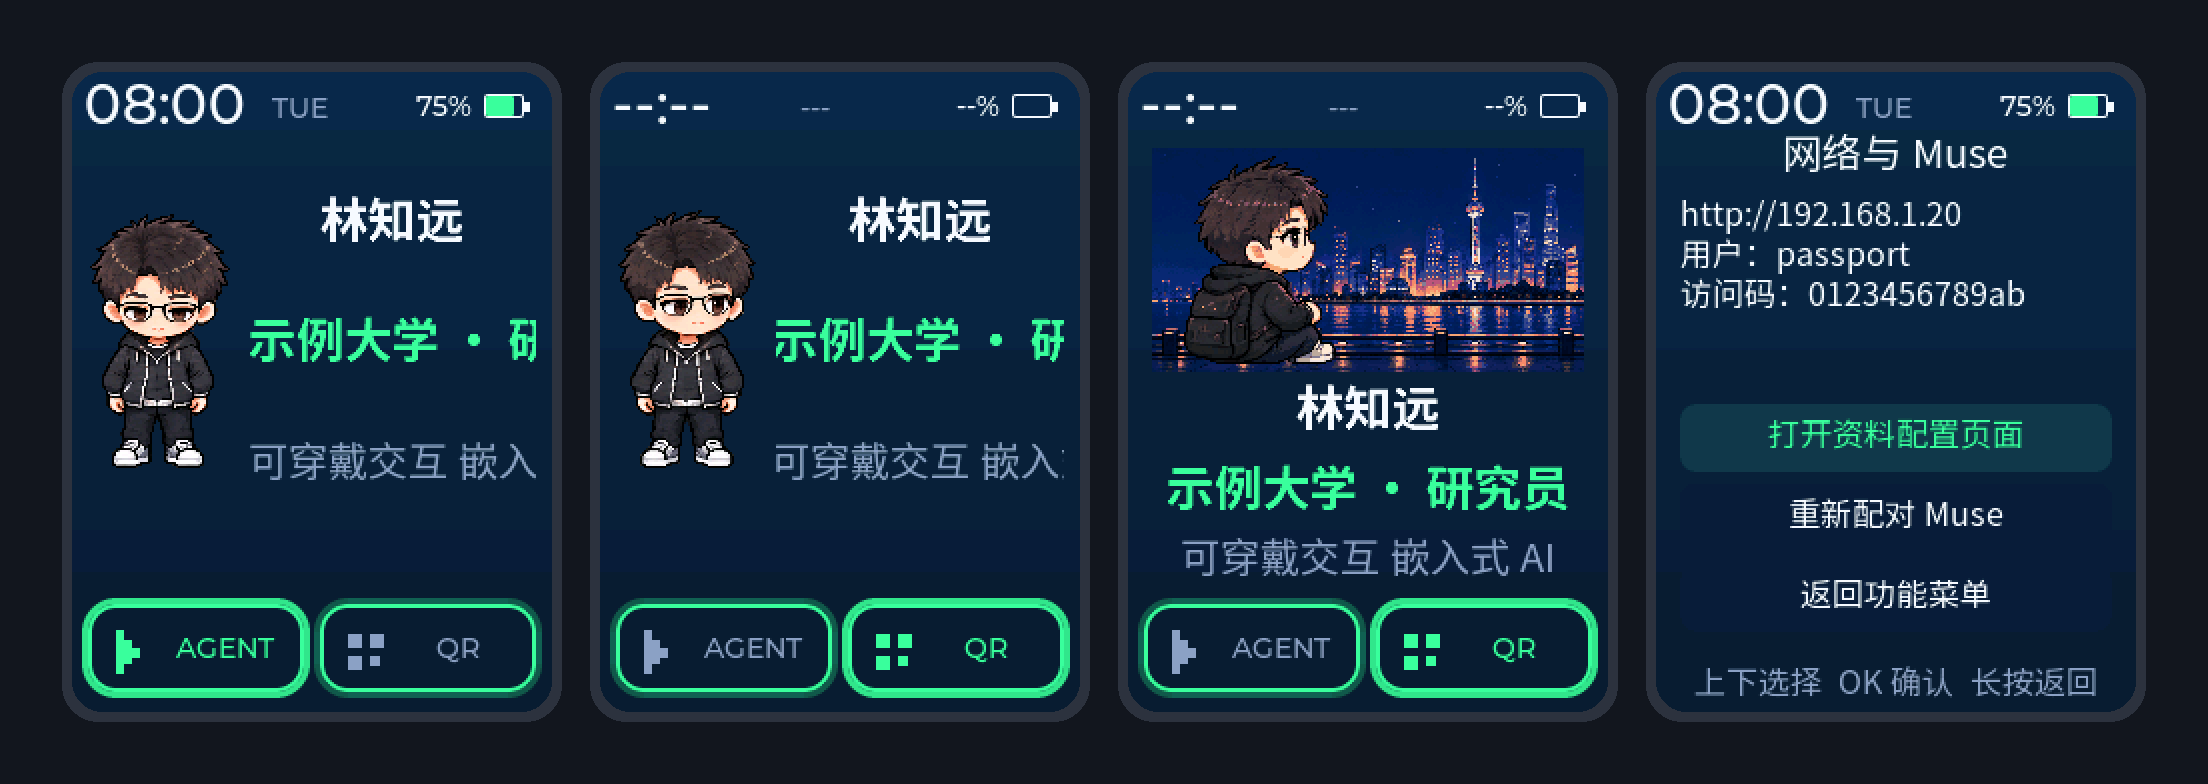
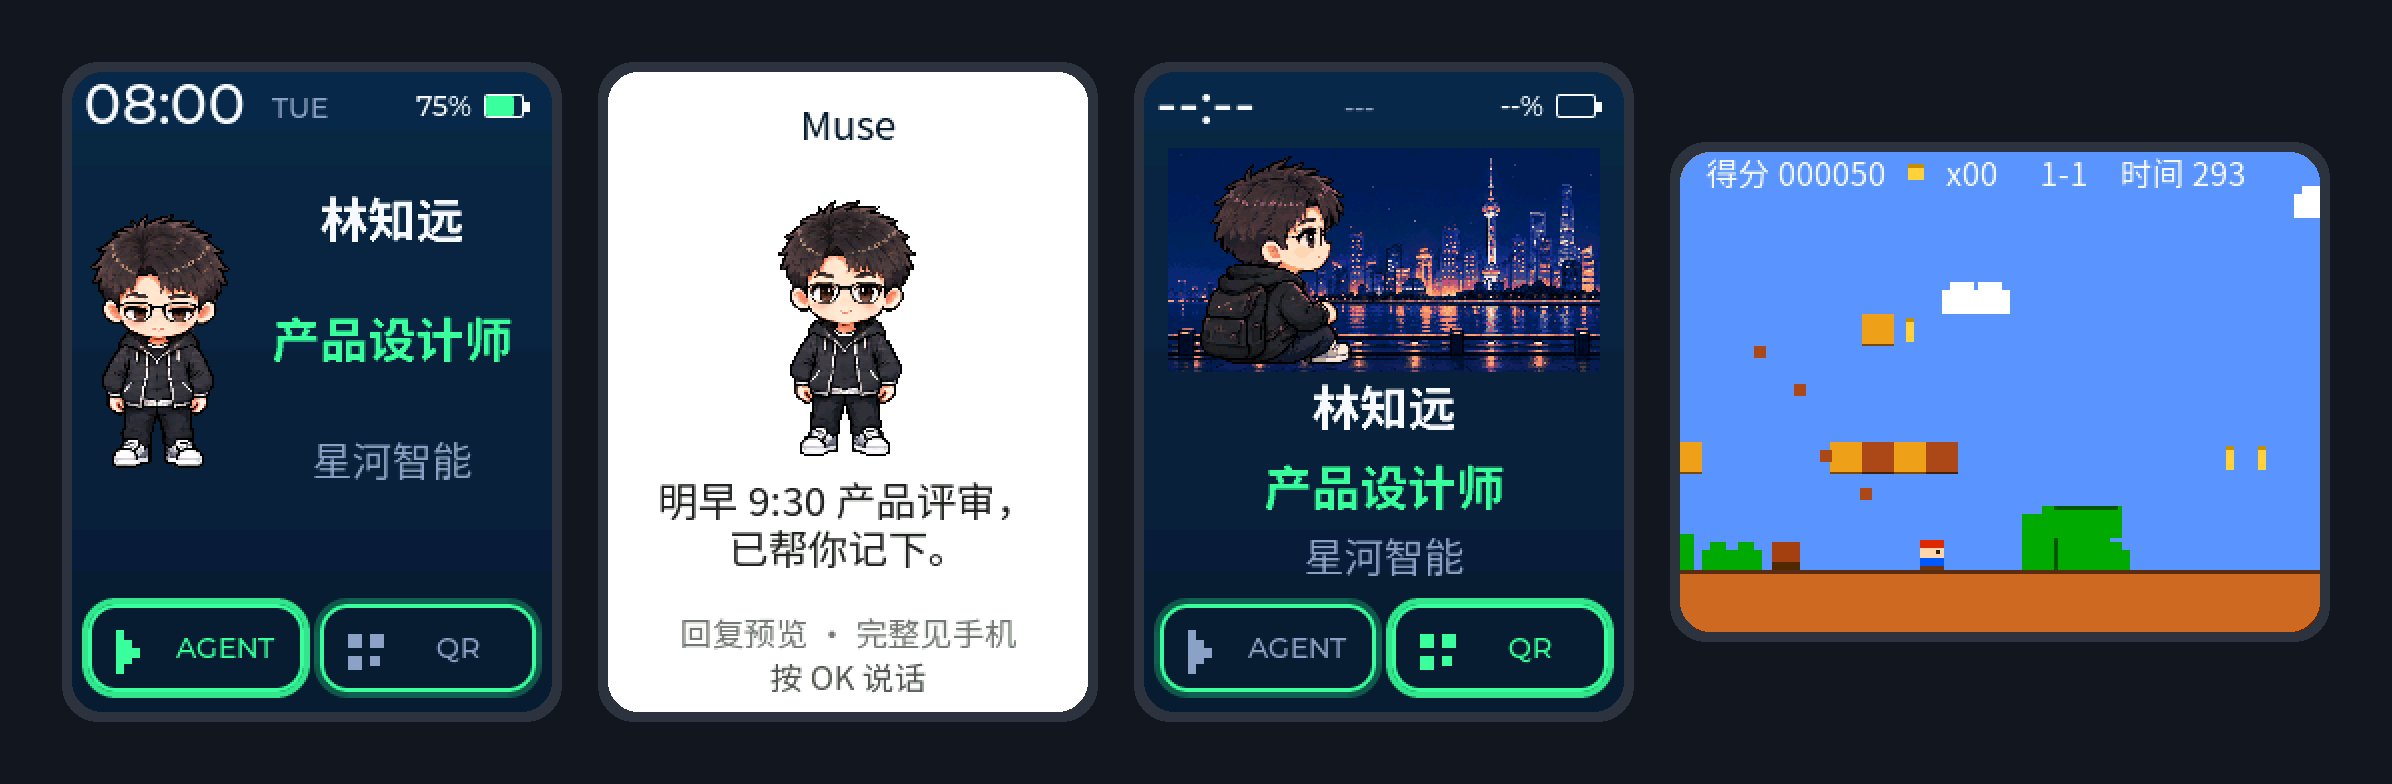
Position as a multi-function badge and showcase Muse and the game
- README: lead with the multi-function badge; add Muse and mini-game
  screenshots rendered from the real UI; fictional sample profile
- Public Muse page reuses the showcase character instead of the
  neutral placeholder face
- About page shows AI PassportOS; profile labels become role and
  organization instead of academic identity and research
- Game HUD uses ASCII x, since the font subset has no multiplication sign
- UI test captures an in-play game frame

diff --git a/tests/test_passport_ui.c b/tests/test_passport_ui.c
@@ -1,6 +1,7 @@
 #include "passport_ui.h"
 #include "passport_assets.h"
 #include "passport_qr.h"
+#include "passport_strings.h"
 #include "src/display/lv_display_private.h"
 #include "src/widgets/label/lv_label_private.h"
 #include <assert.h>
@@ -8,6 +9,8 @@
 #include <stdlib.h>
 #include <string.h>
 
+#define GAME_DEMO_STEPS 90
+#define GAME_DEMO_JUMP 25
 static uint16_t pixels[240*320];
 static uint16_t draw[240*40];
 static uint16_t picture_pixels[240*320];
@@ -290,7 +293,7 @@ int main(int argc,char **argv) {
     model.page=PASSPORT_PAGE_BADGE;
     assert(passport_ui_render(&model,&record,75,true,1761004800)); lv_refr_now(display); dump(argv[1],"badge-live");
     const char *name=record.profile.name[0]?record.profile.name:"姓名未设置";
-    const char *organization=record.profile.title[0]?record.profile.title:"学术身份未设置";
+    const char *organization=record.profile.title[0]?record.profile.title:PASSPORT_TEXT_TITLE_UNSET;
     lv_obj_t *name_label=find_label(lv_screen_active(),name),*organization_label=find_label(lv_screen_active(),organization);
     assert(name_label && organization_label);
     assert(lv_obj_get_style_text_font(name_label,0)==&passport_font_24_bold);
@@ -304,9 +307,9 @@ int main(int argc,char **argv) {
     size_t stable_free=0,stable_blocks=0;
     passport_agent_model_t agent={.revision=1,.state=PASSPORT_AGENT_REPLY,
         .connection=PASSPORT_AGENT_READY,.voice=PASSPORT_VOICE_READY,.journal={.version=1,.count=1}};
-    strcpy(agent.reply,"研究任务已完成，可以继续提问。");
+    strcpy(agent.reply,"明早 9:30 产品评审，已帮你记下。");
     strcpy(agent.journal.result,agent.reply);
-    strcpy(agent.journal.notes[0],"会议笔记：明天整理实验记录。");
+    strcpy(agent.journal.notes[0],"会议笔记：周五前整理需求清单。");
     passport_ui_agent_snapshot(&agent);
     model.page=PASSPORT_PAGE_AGENT;
     assert(passport_ui_render(&model,&record,75,true,1761004800));
@@ -319,7 +322,7 @@ int main(int argc,char **argv) {
     const char *agent_name=getenv("PASSPORT_PREVIEW_REQUIRE_AGENT_NAME");
     if(agent_name) assert(!strcmp(passport_agent_name,agent_name));
     unsigned agent_timers=timer_count();
-    for(unsigned i=0;i<20;i++) strcpy(agent.reply+i*strlen("研究任务记录与结果。\n"),"研究任务记录与结果。\n");
+    for(unsigned i=0;i<20;i++) strcpy(agent.reply+i*strlen("今日待办记录与结果。\n"),"今日待办记录与结果。\n");
     agent.revision++;passport_ui_agent_snapshot(&agent);
     assert(passport_ui_render(&model,&record,75,true,1761004800));lv_refr_now(display);
     lv_obj_t *reply_label=find_label(lv_screen_active(),agent.reply);assert(reply_label);
@@ -335,7 +338,7 @@ int main(int argc,char **argv) {
         assert(timer_count()==agent_timers);
         assert(lv_obj_get_scroll_y(reply_container)==reply_scroll);
     }
-    strcpy(agent.reply,"研究任务已完成，可以继续提问。");agent.revision++;passport_ui_agent_snapshot(&agent);
+    strcpy(agent.reply,"明早 9:30 产品评审，已帮你记下。");agent.revision++;passport_ui_agent_snapshot(&agent);
     agent.voice=PASSPORT_VOICE_PLAYING;agent.level=70;agent.revision++;passport_ui_agent_snapshot(&agent);
     assert(passport_ui_render(&model,&record,75,true,1761004800));
     assert(has_text(lv_screen_active(),"按 OK 停止朗读"));
@@ -404,6 +407,18 @@ int main(int argc,char **argv) {
     assert(has_text(lv_screen_active(),"确认清除 Muse 配对"));
     lv_refr_now(display);dump(argv[1],"muse-repair-confirm");
     model.setup_confirm=false;passport_ui_configuration(NULL,NULL);
+    /* A short scripted run documents the in-game view, not just its title overlay. */
+    model.page=PASSPORT_PAGE_GAME;
+    assert(passport_ui_render(&model,&record,-1,false,0));
+    passport_ui_game_key(PASSPORT_KEY_OK,PASSPORT_KEY_PRESS);passport_ui_game_key(PASSPORT_KEY_OK,PASSPORT_KEY_RELEASE);
+    passport_ui_game_key(PASSPORT_KEY_DOWN,PASSPORT_KEY_PRESS);
+    for(unsigned step=0;step<GAME_DEMO_STEPS;step++) {
+        if(step%GAME_DEMO_JUMP==GAME_DEMO_JUMP-1) passport_ui_game_key(PASSPORT_KEY_OK,PASSPORT_KEY_PRESS);
+        if(step%GAME_DEMO_JUMP==0) passport_ui_game_key(PASSPORT_KEY_OK,PASSPORT_KEY_RELEASE);
+        lv_tick_inc(33);assert(passport_ui_render(&model,&record,-1,false,0));
+    }
+    passport_ui_game_key(PASSPORT_KEY_DOWN,PASSPORT_KEY_RELEASE);
+    lv_refr_now(display);dump(argv[1],"game-play");
     for(unsigned iteration=0;iteration<100;iteration++) {
         for(int page=PASSPORT_PAGE_BADGE;page<=PASSPORT_PAGE_MUSE_SETUP;page++) {
             model.page=(passport_page_t)page;

diff --git a/main/passport_ui.c b/main/passport_ui.c
@@ -318,7 +318,7 @@ static void agent_update(void) {
 }
 static bool agent_build(void) {
     text(body,12,16,216,30,passport_agent_name,&passport_font_20,DARK_INK,true);
-    agent_stage=box(body,0,50,240,142,0xffffff);
+    agent_stage=box(body,0,46,240,150,0xffffff);
     if(!agent_stage) return false;
     lv_obj_set_style_bg_opa(agent_stage,LV_OPA_TRANSP,0);
     const lv_image_dsc_t *portrait=passport_agent_avatar_frame(0);
@@ -326,7 +326,7 @@ static bool agent_build(void) {
     if(!avatar) {page_failed=true;return false;}
     lv_image_set_src(avatar,portrait);
     /* Native Flash frames avoid a scaled image layer on the no-PSRAM C3. */
-    lv_obj_set_pos(avatar,(240-(int)portrait->header.w)/2,(142-(int)portrait->header.h)/2);
+    lv_obj_set_pos(avatar,(240-(int)portrait->header.w)/2,(150-(int)portrait->header.h)/2);
     avatar_scene=NULL;avatar_motion=avatar_temporary=false;
     scene_began=agent_visual_since=lv_tick_get();blink_tick=0;
     agent_content=lv_obj_create(body);
@@ -707,7 +707,7 @@ static void game_overlay_update(void) {
         else lv_obj_clear_flag(game_overlay_hint2,LV_OBJ_FLAG_HIDDEN);
         if(wanted==1) {
             lv_label_set_text(game_overlay_title,PASSPORT_TEXT_MENU_GAME);
-            snprintf(line,sizeof line,"%s ×%u · %s %lu",PASSPORT_TEXT_GAME_LIVES,
+            snprintf(line,sizeof line,"%s x%u · %s %lu",PASSPORT_TEXT_GAME_LIVES,
                      game.lives,PASSPORT_TEXT_GAME_BEST,(unsigned long)game.best);
             lv_label_set_text(game_overlay_hint,PASSPORT_TEXT_GAME_READY);
             lv_label_set_text(game_overlay_hint2,PASSPORT_TEXT_GAME_EXIT);
@@ -739,7 +739,7 @@ static void game_frame(void) {
         game_shown_score=game.score;
     }
     if(game_shown_coins!=game.coins) {
-        snprintf(buf,sizeof buf,"×%02u",game.coins);
+        snprintf(buf,sizeof buf,"x%02u",game.coins);
         if(game_hud_coins) lv_label_set_text(game_hud_coins,buf);
         game_shown_coins=game.coins;
     }
@@ -838,7 +838,7 @@ static bool build_page(const passport_model_t *m,const passport_record_t *r) {
         for(unsigned i=0;i<3;i++) panel(body,BRIGHT_BAR_X0+(int)i*BRIGHT_BAR_GAP,BRIGHT_BAR_Y,BRIGHT_BAR_W,BRIGHT_BAR_H,m->brightness>=(i+1)*30?NEON:TRACK,4);
         text(body,CONTENT_X,BRIGHT_HINT_Y,CONTENT_W,24,PASSPORT_TEXT_BRIGHTNESS_HINT,&passport_font_16,MUTED,true);
     } else if(m->page==PASSPORT_PAGE_ABOUT) {
-        text(body,CONTENT_X,ABOUT_TITLE_Y,CONTENT_W,24,"Passport OS",&lv_font_montserrat_20,INK,true);
+        text(body,CONTENT_X,ABOUT_TITLE_Y,CONTENT_W,24,"AI PassportOS",&lv_font_montserrat_20,INK,true);
         text(body,CONTENT_X,ABOUT_VER_Y,CONTENT_W,24,PASSPORT_TEXT_ABOUT_VERSION " " PASSPORT_VERSION,&passport_font_16,NEON,true);
         text(body,CONTENT_X,ABOUT_BOARD_Y,CONTENT_W,24,PASSPORT_TEXT_ABOUT_BOARD,&passport_font_16,MUTED,true);
     } else if(m->page==PASSPORT_PAGE_MUSE_SETUP) {

diff --git a/main/passport_config.c b/main/passport_config.c
@@ -81,8 +81,8 @@ static const char PAGE[] =
 "</style></head><body><h1>工牌配置</h1>"
 "<div class='sub'>连接热点后自动弹出本页；五分钟无操作热点自动关闭。</div>"
 "<form id='f'><label>姓名</label><input type='text' name='name' maxlength='64'>"
-"<label>学术身份</label><input type='text' name='title' maxlength='96'>"
-"<label>研究方向</label><input type='text' name='research' maxlength='192'>"
+"<label>职位 / 身份</label><input type='text' name='title' maxlength='96'>"
+"<label>单位 / 标签</label><input type='text' name='research' maxlength='192'>"
 "<label>简介</label><textarea name='bio' rows='2' maxlength='512'></textarea>"
 "<label>个人主页链接</label>"
 "<input type='text' name='homepage' maxlength='128' placeholder='https://...'>"

diff --git a/assets/passport/passport_strings.h b/assets/passport/passport_strings.h
@@ -1,12 +1,12 @@
 /* Generated from ui-text.json; font inventory uses the same copy. */
 #pragma once
-#define PASSPORT_TEXT_BADGE_TITLE "科研身份卡"
+#define PASSPORT_TEXT_BADGE_TITLE "身份卡"
 #define PASSPORT_TEXT_MENU_TITLE "功能菜单"
 #define PASSPORT_TEXT_BRIGHTNESS_TITLE "显示亮度"
 #define PASSPORT_TEXT_ABOUT_TITLE "关于"
 #define PASSPORT_TEXT_NAME_UNSET "姓名未设置"
-#define PASSPORT_TEXT_TITLE_UNSET "学术身份未设置"
-#define PASSPORT_TEXT_RESEARCH_UNSET "研究方向未设置"
+#define PASSPORT_TEXT_TITLE_UNSET "职位未设置"
+#define PASSPORT_TEXT_RESEARCH_UNSET "单位未设置"
 #define PASSPORT_TEXT_IMAGE_UNSET "未上传图片"
 #define PASSPORT_TEXT_IMAGE_HINT "Wi-Fi 配置中上传"
 #define PASSPORT_TEXT_MENU_BRIGHTNESS "显示亮度"

diff --git a/tools/passport_web.py b/tools/passport_web.py
@@ -158,8 +158,8 @@ PAGE = """<!doctype html>
  </div>
  <form id="f">
   <label>姓名</label><input type="text" name="name" value="@NAME@" maxlength="64">
-  <label>学术身份</label><input type="text" name="title" value="@TITLE@" maxlength="96">
-  <label>研究方向</label><input type="text" name="research" value="@RESEARCH@" maxlength="192">
+  <label>职位 / 身份</label><input type="text" name="title" value="@TITLE@" maxlength="96">
+  <label>单位 / 标签</label><input type="text" name="research" value="@RESEARCH@" maxlength="192">
   <label>简介</label><textarea name="bio" rows="2" maxlength="512">@BIO@</textarea>
   <label>个人主页链接</label>
   <input type="text" name="homepage" value="@HOMEPAGE@" maxlength="128" placeholder="https://...">

diff --git a/main/passport_settings.c b/main/passport_settings.c
@@ -46,7 +46,7 @@ void passport_settings_error(passport_status_t status,const passport_glyph_issue
                              char *out,size_t capacity) {
     if(!out || !capacity) return;
     if(status==PASSPORT_ERR_UNSUPPORTED && issue && issue->codepoint) {
-        static const char *const labels[]={"姓名","学术身份","研究方向","简介","主页"};
+        static const char *const labels[]={"姓名","职位","单位","简介","主页"};
         char character[5];encode(issue->codepoint,character);
         snprintf(out,capacity,"%s含有字库未收录的字符：%s（U+%04lX）。请更换字符或更新设备字库。",
             issue->field<5?labels[issue->field]:"资料",character,(unsigned long)issue->codepoint);

diff --git a/assets/images/passport_agent_avatar.c b/assets/images/passport_agent_avatar.c
@@ -1,7 +1,11 @@
-/* Public builds use the neutral avatar; personal Muse art stays private. */
+/* Public builds reuse the showcase character; personal Muse art stays private. */
 #include "passport_assets.h"
 const char passport_agent_name[] = "Muse";
 const lv_image_dsc_t *passport_agent_avatar_frame(unsigned frame) {
+    /* Agent poses: neutral, half/closed blink, listen, think, speak a/b, nod. */
+    static const uint8_t motion[] = {0,2,3,8,10,13,12,14};
     static const uint8_t neutral[] = {0,1,2,0,0,0,0,0};
-    return &passport_avatar_frames[neutral[frame<8?frame:0]];
+    if(frame>=8) frame=0;
+    if(passport_motion_count>=18) return &passport_motion_frames[motion[frame]];
+    return &passport_avatar_frames[neutral[frame]];
 }

diff --git a/README.md b/README.md
@@ -3,13 +3,14 @@
 <h1 align="center">AI PassportOS</h1>
 
 <p align="center">
-  <strong>Open firmware that turns the FoloToy AI Passport into a research identity badge with a Muse AI assistant on board.</strong>
+  <strong>Open firmware that turns the FoloToy AI Passport into a multi-function AI badge.</strong>
 </p>
 
 <p align="center">
-  <strong>Identity card first</strong> ·
-  <strong>Push-to-talk to your Muse assistant</strong> ·
-  <strong>Your own animated character</strong>
+  <strong>Animated identity card</strong> ·
+  <strong>Muse AI assistant</strong> ·
+  <strong>Landscape mini game</strong> ·
+  <strong>Your own character</strong>
 </p>
 
 <p align="center">
@@ -20,25 +21,53 @@
 </p>
 
 <p align="center">
-  <img src="assets/images/ai-passportos-hero.png" alt="AI PassportOS screens: identity card, Muse reply, network page, QR page" width="94%">
+  <img src="assets/images/ai-passportos-hero.png" alt="AI PassportOS screens: animated identity card, Muse reply, Bund night-view avatar, landscape mini game" width="94%">
 </p>
+
+<p align="center"><sub>All screens are host renders of the real firmware UI. The sample profile is fictional.</sub></p>
 
 ## What it does
 
-The badge boots straight into your identity card: name, affiliation, research
-and an avatar that breathes, blinks and nods. Two buttons lead to the AI agent
-and a full-screen QR or business-card image. Everything is driven by the three
-buttons on the device.
+One badge, several jobs: it boots into an animated identity card, one button
+press opens your Muse AI assistant, and in a quiet moment you can turn it
+sideways for a quick game. Everything is driven by the three buttons on the device.
+
+### Animated identity card
+
+Name, role, organization and bio in Chinese or English, with a live clock and
+battery level. The avatar is a pixel character that breathes, blinks and nods,
+or an animated banner such as the Bund night view; the layout adapts to it. The
+QR button opens a full-screen QR code or business-card image.
+
+### Muse AI assistant
+
+After Bluetooth LE pairing in the Muse app, the badge becomes a pocket entry to
+Muse: press OK to talk, read a reply preview on screen, and keep the full answer
+on your phone. Replies can be saved as local notes; the newest eight stay on the badge.
+
+<p align="center">
+  <img src="assets/images/showcase-muse.png" alt="Muse assistant: listening, reply, task result, local notes" width="94%">
+</p>
+
+Muse can also operate the badge through a small set of device tools: read
+status, set brightness, save a note and switch pages. Nothing else.
+
+### Landscape mini game
+
+The hidden menu holds a side-scrolling platform game. Turn the badge sideways:
+UP/DOWN move, OK jumps.
+
+<p align="center">
+  <img src="assets/images/showcase-game.png" alt="Mini game: in play and title screen" width="66%">
+</p>
+
+### Also included
 
 | Feature | Details |
 | --- | --- |
-| Identity card | Five profile fields, Chinese and English text, live clock and battery, layout that adapts to the avatar |
-| Muse assistant | Bluetooth LE pairing in the Muse app, encrypted control session, streamed 16 kHz voice notes, reply preview on screen, eight local notes |
-| Device tools for Muse | Muse can read status, set brightness, save a note and switch pages; nothing else |
 | Configuration | Phone hotspot portal (default firmware) or LAN page with a one-time code (Muse firmware), plus a USB JSON protocol |
 | Network time | The Muse firmware sets the clock from NTP as soon as Wi-Fi is up |
-| Animated avatar | Hatch a character with Codex's `$hatch-pet` and convert it with one command ([skill](skills/passport-pet-avatar/SKILL.md)) |
-| Mini game | A side-scrolling runner in the hidden menu |
+| Custom character | Hatch a character with Codex's `$hatch-pet` and convert it with one command ([skill](skills/passport-pet-avatar/SKILL.md)) |
 
 ## Two firmware builds
 

diff --git a/README.zh_CN.md b/README.zh_CN.md
@@ -3,13 +3,14 @@
 <h1 align="center">AI PassportOS</h1>
 
 <p align="center">
-  <strong>把 FoloToy AI Passport 变成一张科研身份工牌，并内置 Muse AI 助理的开源固件。</strong>
+  <strong>把 FoloToy AI Passport 变成一张多功能 AI 工牌的开源固件。</strong>
 </p>
 
 <p align="center">
-  <strong>开机即身份卡</strong> ·
-  <strong>按键与 Muse 助理对话</strong> ·
-  <strong>换上你自己的动态角色</strong>
+  <strong>动态身份卡</strong> ·
+  <strong>Muse AI 助理</strong> ·
+  <strong>横屏小游戏</strong> ·
+  <strong>换上你自己的角色</strong>
 </p>
 
 <p align="center">
@@ -20,24 +21,49 @@
 </p>
 
 <p align="center">
-  <img src="assets/images/ai-passportos-hero.png" alt="AI PassportOS 界面：身份卡、Muse 回复、网络页、二维码页" width="94%">
+  <img src="assets/images/ai-passportos-hero.png" alt="AI PassportOS 界面：动态身份卡、Muse 助理回复、外滩夜景头像、横屏小游戏" width="94%">
 </p>
+
+<p align="center"><sub>以上都是真实固件界面在电脑上的渲染截图，示例资料为虚构。</sub></p>
 
 ## 它能做什么
 
-工牌开机直接显示你的身份卡：姓名、单位、研究方向，以及会呼吸、眨眼、点头
-的头像。底部两个按钮分别进入 AI 智能体页和全屏二维码/名片图。所有操作都用
-设备上的三个按键完成。
+一块工牌，几种用法：开机是会动的身份卡，按一下进入 Muse AI 助理，闲下来还能
+横过来玩一局小游戏。所有操作都用设备上的三个按键完成。
+
+### 动态身份卡
+
+姓名、职位、单位和简介，支持中英文，带实时时钟与电量。头像是会呼吸、眨眼、
+点头的像素角色，也可以换成外滩夜景这样的动态横幅；布局随头像自动调整。
+底部 QR 按钮打开全屏二维码或名片图。
+
+### Muse AI 助理
+
+在 Muse 手机应用里用蓝牙配对后，工牌就是 Muse 的随身入口：按 OK 说话，
+屏幕上显示回复预览，完整内容留在手机里。回复可以存成本地笔记，最近八条随时翻看。
+
+<p align="center">
+  <img src="assets/images/showcase-muse.png" alt="Muse 助理：录音、回复、任务结果、本地笔记" width="94%">
+</p>
+
+Muse 还能通过一组受限的设备工具操作工牌：查状态、调亮度、存笔记、切换页面，
+除此之外不能做别的事。
+
+### 横屏小游戏
+
+隐藏菜单里有一个横版闯关小游戏。把工牌横过来，上下键左右移动，OK 跳跃。
+
+<p align="center">
+  <img src="assets/images/showcase-game.png" alt="横屏小游戏：游戏中和开始界面" width="66%">
+</p>
+
+### 其他
 
 | 功能 | 说明 |
 | --- | --- |
-| 身份卡 | 五个资料字段，支持中英文，实时时钟与电量，布局随头像自适应 |
-| Muse 助理 | 在 Muse 手机应用中蓝牙配对，加密控制会话，16 kHz 流式语音笔记，屏幕显示回复预览，保留八条本地笔记 |
-| 给 Muse 的设备工具 | Muse 只能查状态、调亮度、存笔记和切换页面，不能做其他事 |
 | 配置 | 默认固件用手机热点引导页，Muse 固件用带一次性访问码的局域网页面，另有 USB JSON 协议 |
 | 网络对时 | Muse 固件连上 Wi-Fi 后自动用 NTP 校准时钟 |
-| 动态头像 | 用 Codex 的 `$hatch-pet` 孵化角色，一条命令转换（[技能说明](skills/passport-pet-avatar/SKILL.zh_CN.md)） |
-| 小游戏 | 隐藏菜单里的横版跑酷 |
+| 自定义角色 | 用 Codex 的 `$hatch-pet` 孵化角色，一条命令转换（[技能说明](skills/passport-pet-avatar/SKILL.zh_CN.md)） |
 
 ## 两种固件
 

diff --git a/docs/assets/passport-os-v0.1-user-guide.md b/docs/assets/passport-os-v0.1-user-guide.md
@@ -2,7 +2,7 @@
 
 # AI PassportOS v0.1
 
-The device starts on the research badge. UP/DOWN moves the highlight between
+The device starts on the identity badge. UP/DOWN moves the highlight between
 the two bottom buttons; OK enters the highlighted one — AGENT opens the
 assistant page and QR shows the full-screen picture page (an uploaded card/QR
 image, no status bar). On the picture page OK returns to the badge. The badge
@@ -79,6 +79,8 @@ Install `tools/requirements-passport-host.txt` with pip. Use an explicitly
 verified port (`COM7` below is an example). The tool does not probe ports and
 sets DTR/RTS false before opening. A UTF-8 local JSON file contains exactly five string
 fields: `name`, `title`, `research`, `bio`, `homepage`; empty strings are allowed.
+The configuration page labels `title` as role and `research` as organization or
+tag; the field names are kept for compatibility.
 Byte limits, excluding terminators, are 64/96/192/512/128. Only research and bio
 allow newlines; homepage is empty or a valid HTTP(S) URL.
 
